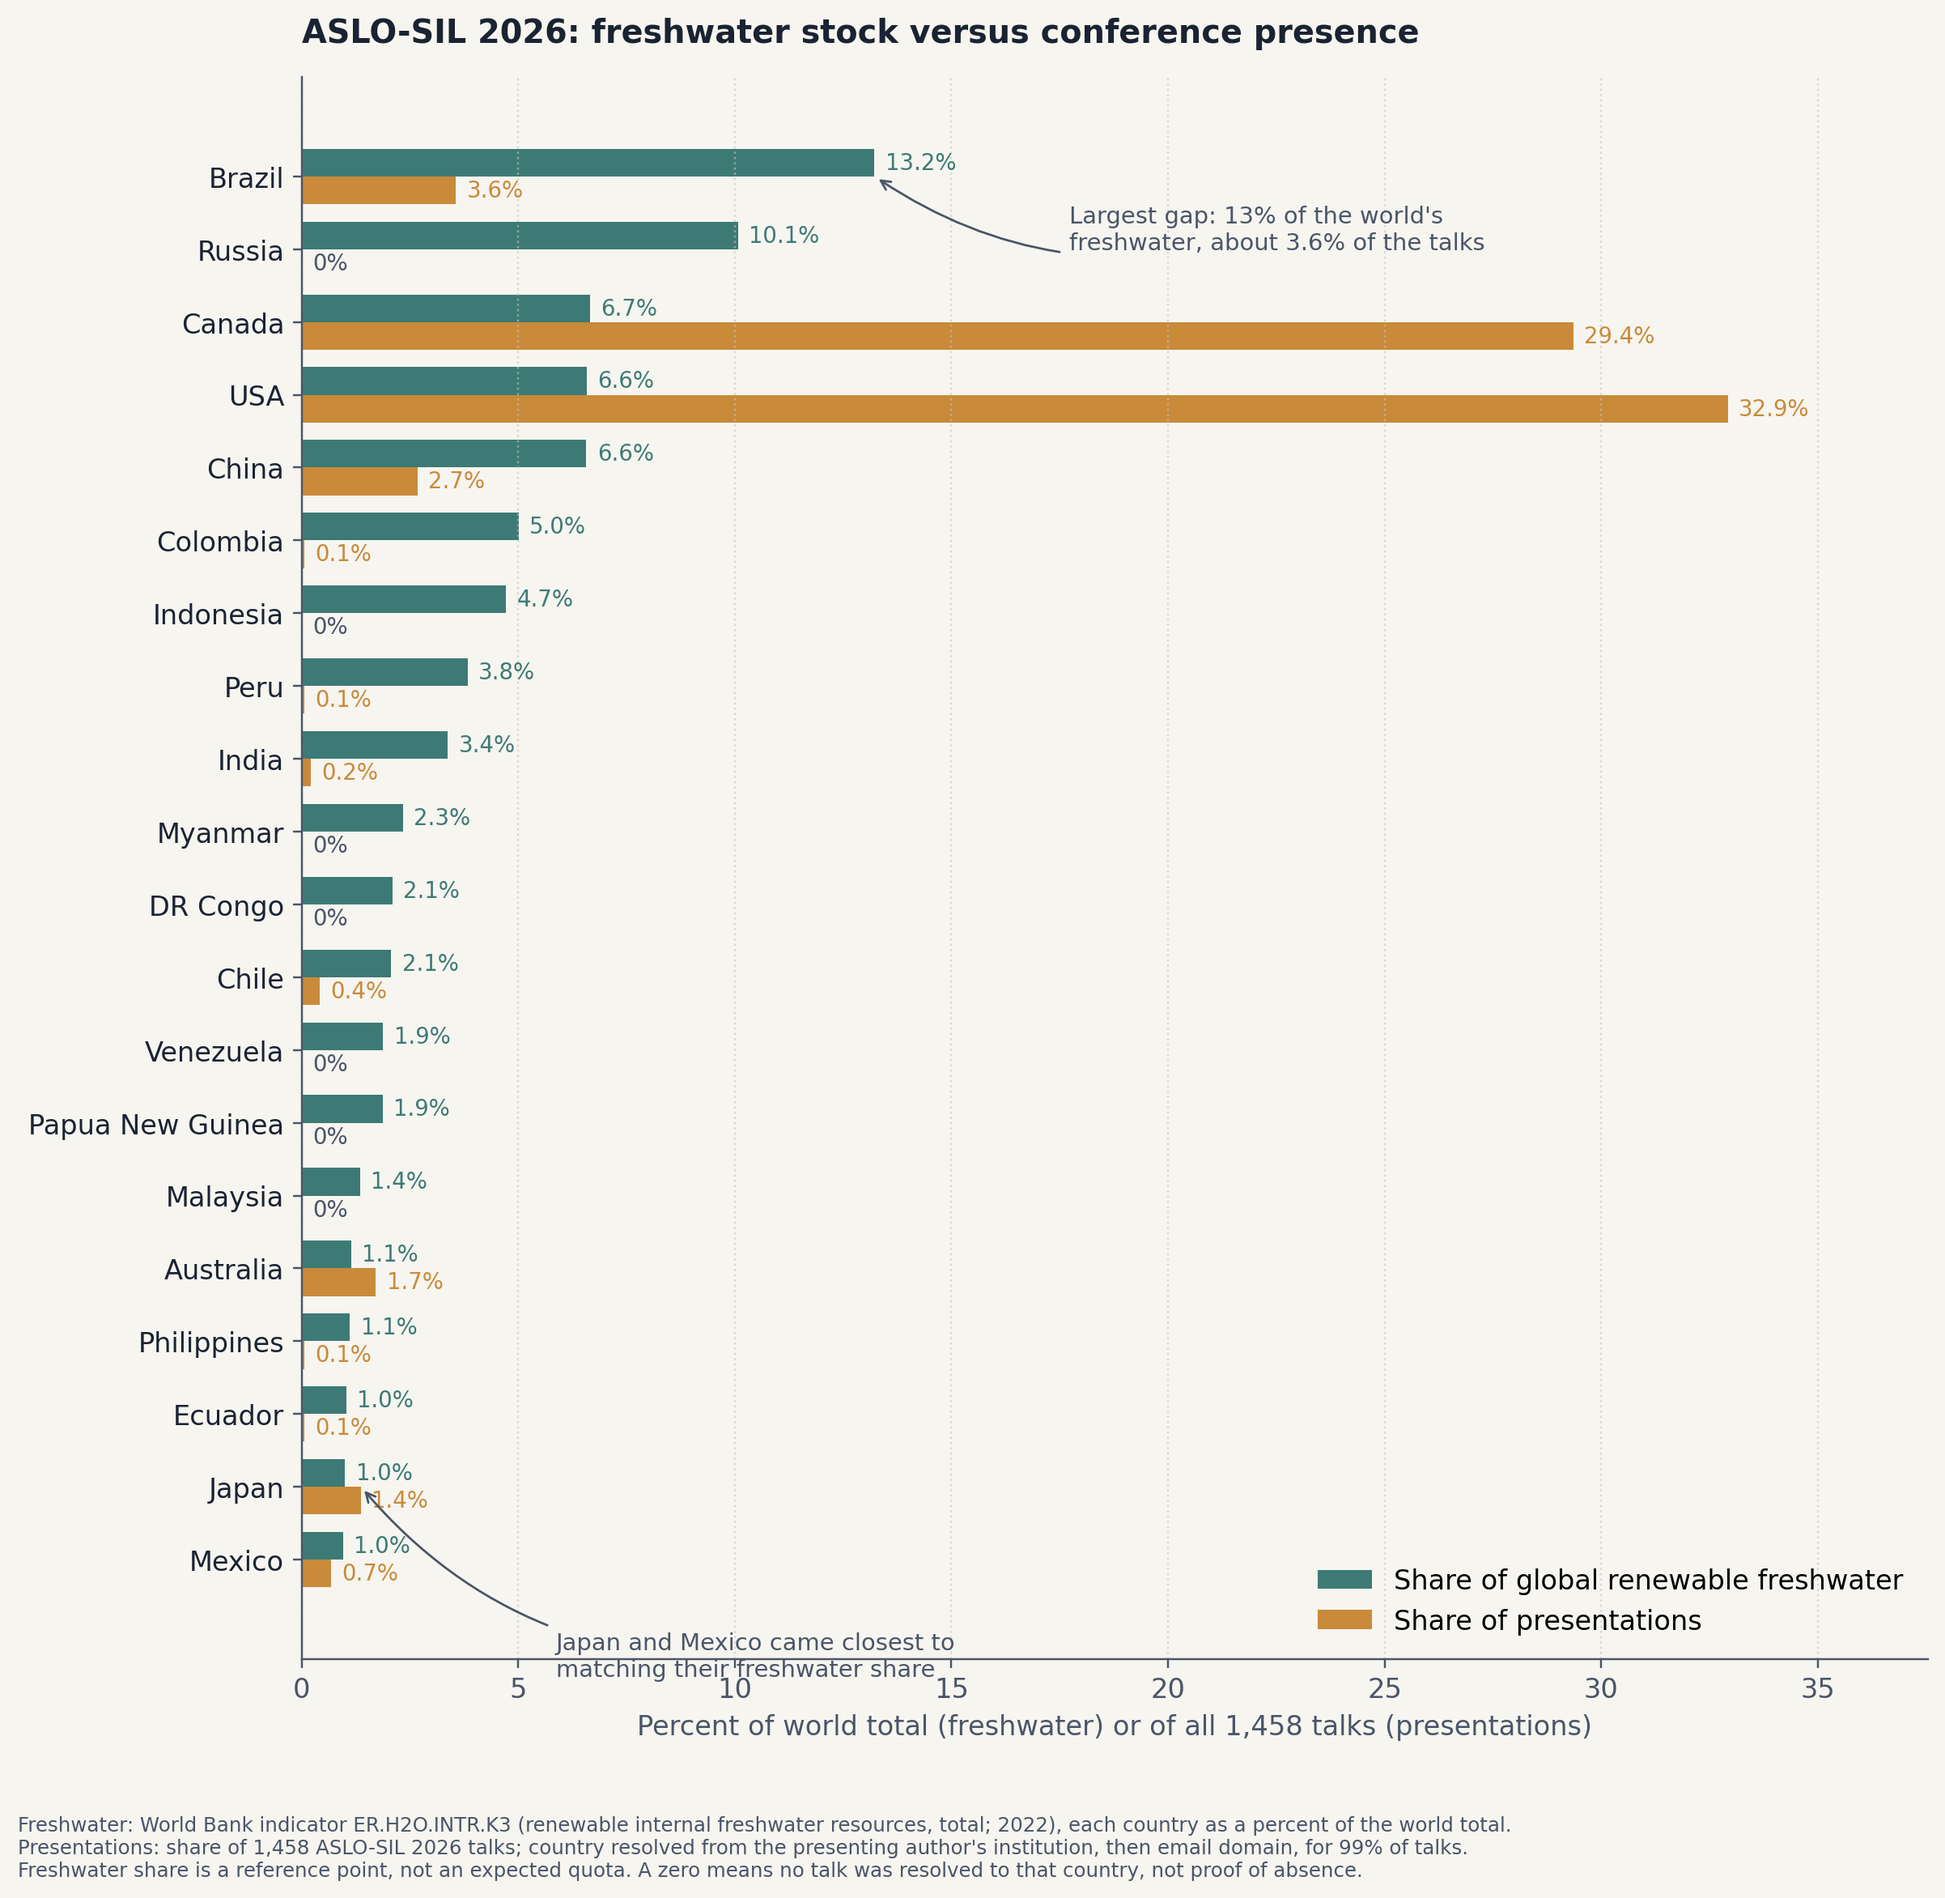
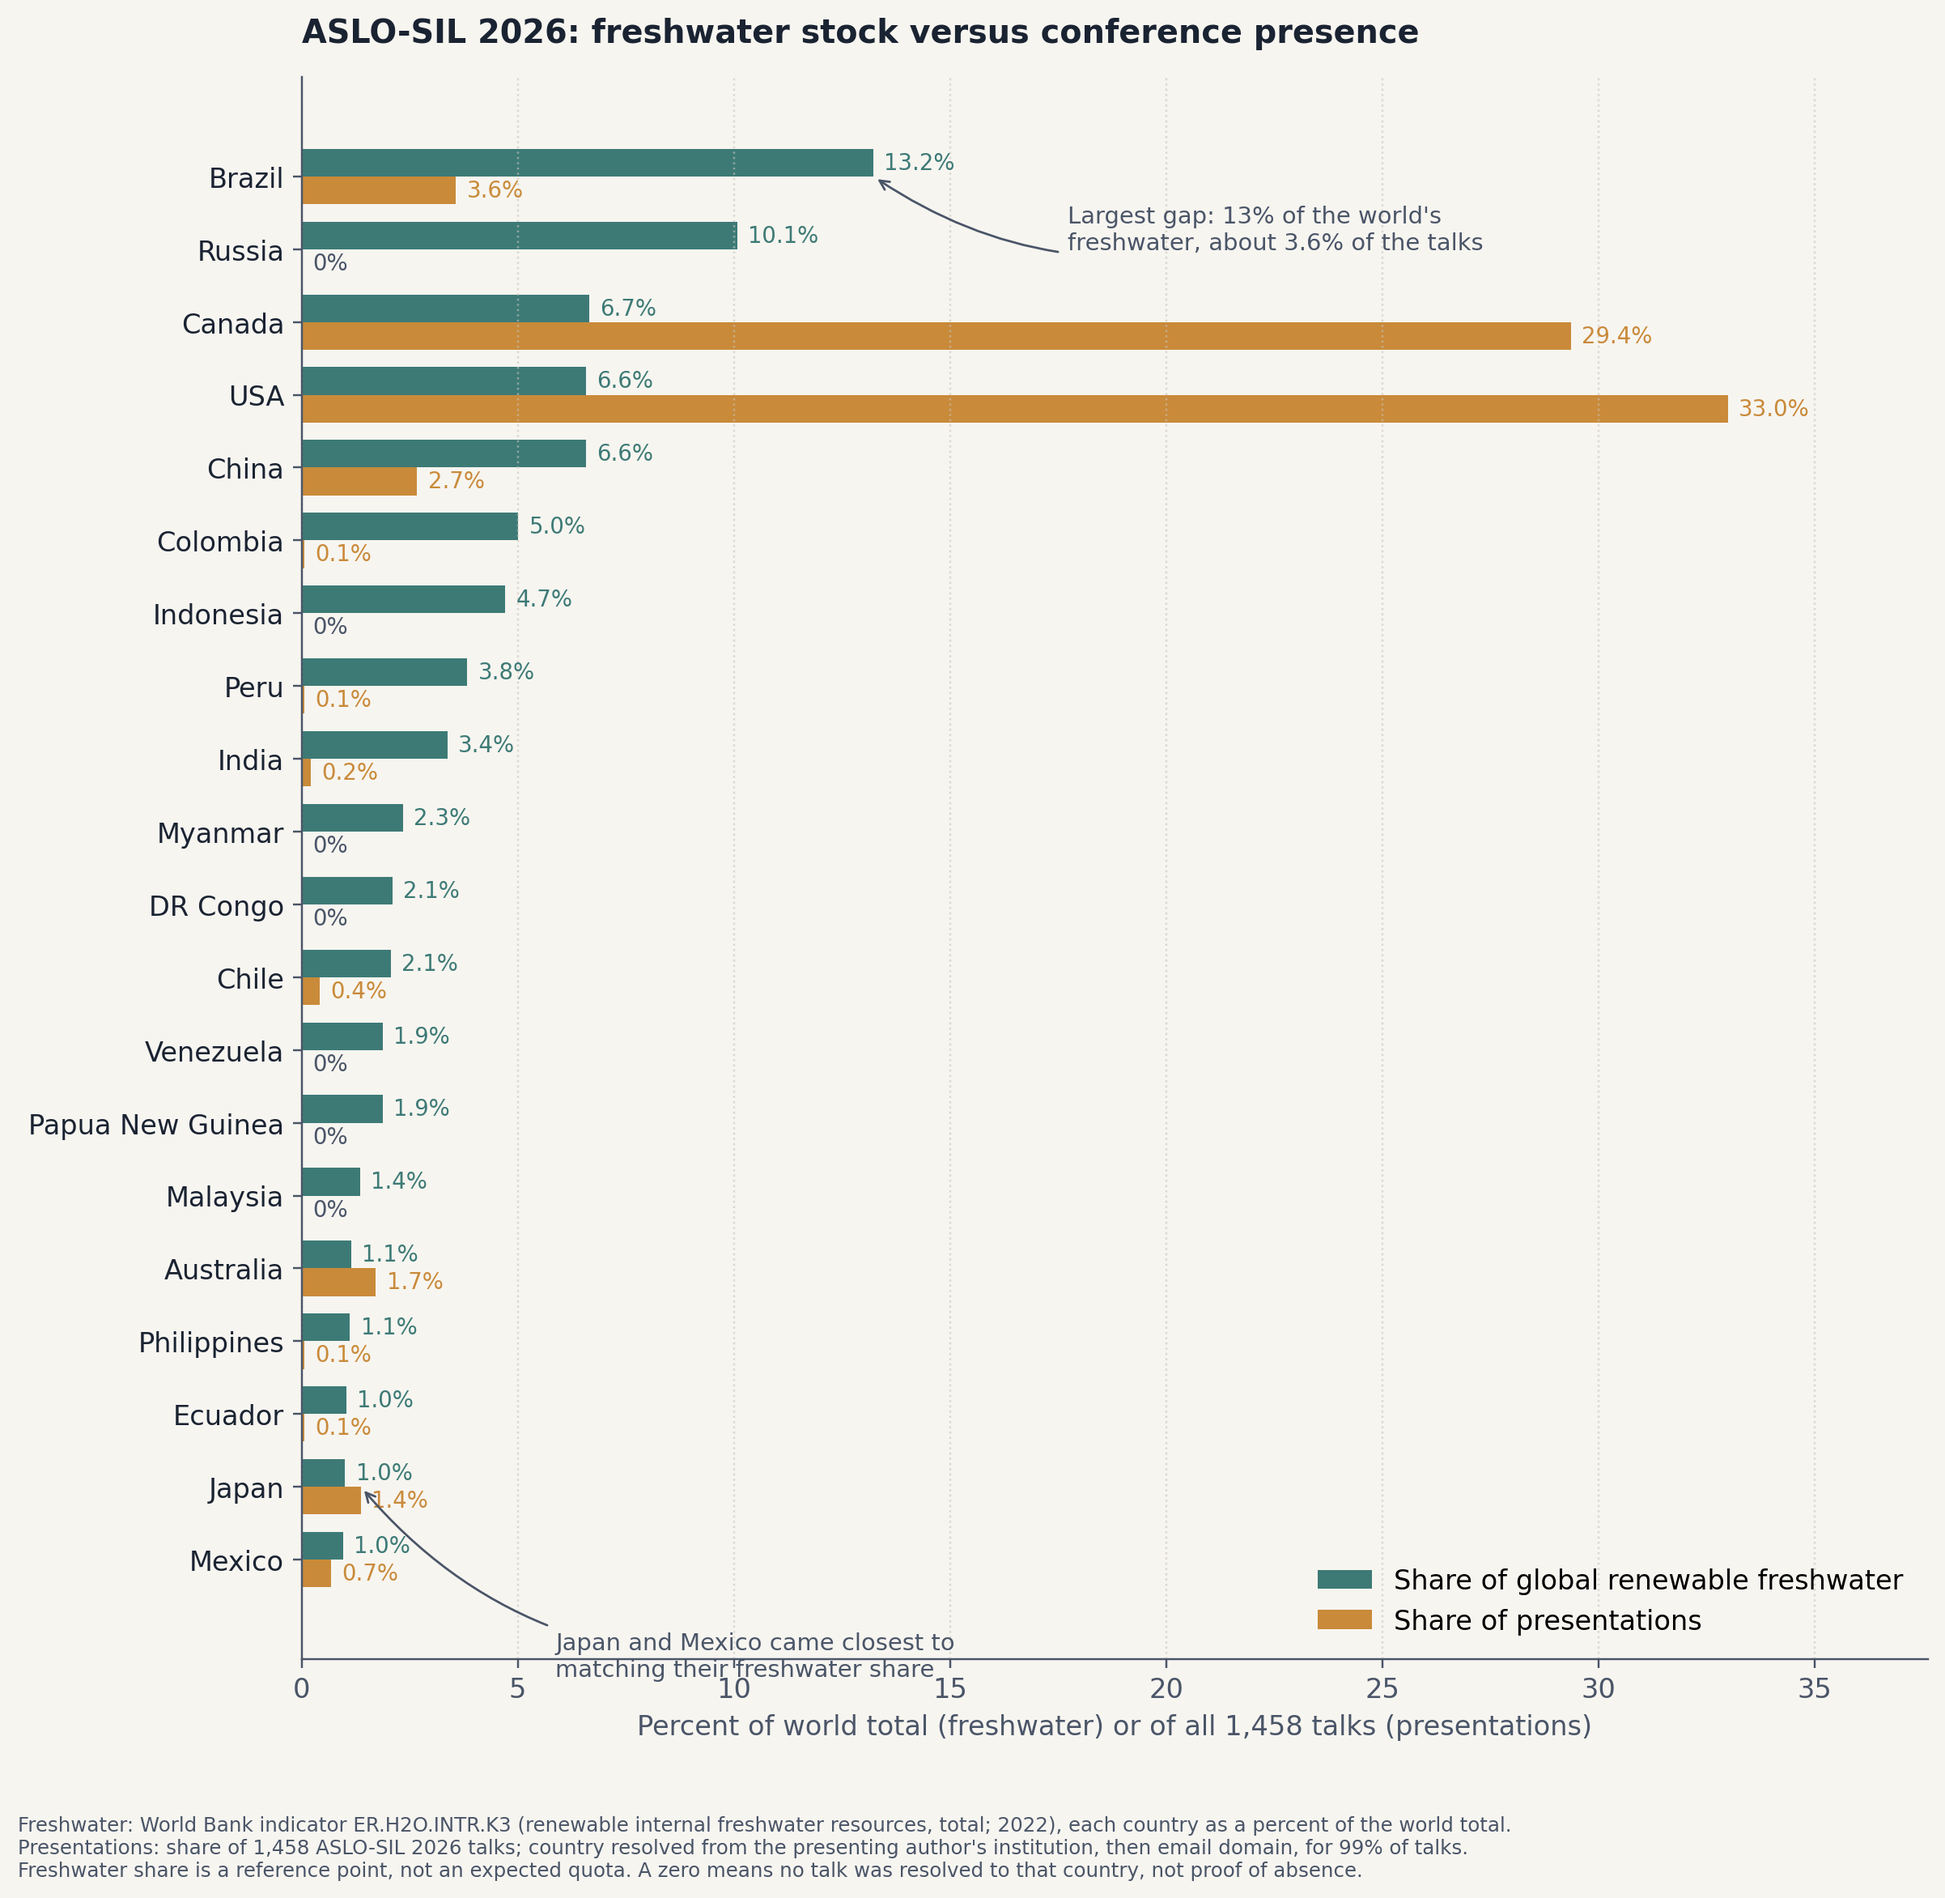
Fix a substring false positive: Oberlin College was resolving to Germany
The Germany gazetteer entry was the bare pattern `berlin`, with no word
boundary, so "Oberlin College" (Ohio) matched on its Ob-ERLIN- substring and
resolved to Germany. The pattern is now `\bberlin\b`, which still matches
"TU Berlin", "IGB Berlin" and "Humboldt-Universitat zu Berlin".

Worth recording why this happened. Oberlin's own address, an @oberlin.edu, would
have resolved it correctly under rule 4. It was rule 1 (institution before mail
provider) that let a substring outrank a correct email, and rule 1 is exactly the
change that fixed the threefold Brazil undercount. A fix can introduce a new
error, which is why the gazetteer needs a human read and not only a green test.

`barcelona` is deliberately left without a word boundary: it must keep matching
"BarcelonaTech" (Universitat Politecnica de Catalunya), which carries no other
Spanish signal.

Effect: USA 480 -> 481 (32.9% -> 33.0%), Germany 83 -> 82. Resolution stays at
1,444 of 1,458 (99%), US+Canada stays 62.3%. Verifier expectations, the
manuscript's n, Figure 2 and the README correction table all updated. 65 checks
still pass against the published data.

diff --git a/scripts/country_resolver_v2.py b/scripts/country_resolver_v2.py
@@ -23,6 +23,18 @@ v2 RULE ORDER (institution truth first, mail provider last):
      not their country: `yahoo.fr` on a Université du Québec affiliation is Canadian.
   4. Generic .edu/.gov => USA, LAST, so it can never outrank a named foreign institution.
 
+v2.1 FIX (Oberlin): the Germany pattern was `berlin`, with no word boundary, so
+`Oberlin College` (Ohio) matched and resolved to Germany. Its own address,
+ylin@oberlin.edu, would have resolved it correctly under rule 4. The lesson is
+that rule 1 (institution first), which fixed the Brazil undercount, is also what
+let a substring outrank a correct email: a fix can introduce a new error. The
+pattern is now `\bberlin\b`, which still matches "TU Berlin", "IGB Berlin" and
+"Humboldt-Universitat zu Berlin". USA 480->481, Germany 83->82.
+
+Note that `barcelona` is deliberately left WITHOUT a word boundary: it must keep
+matching "BarcelonaTech" (Universitat Politecnica de Catalunya), which is in
+Barcelona and carries no other Spanish signal.
+
 Anything still unresolved is reported as unresolved. It is never guessed.
 """
 import re
@@ -123,7 +135,7 @@ GAZETTEER = [
                  r"german federal institute of hydrology", r"university of cologne",
                  r"brandenburg university", r"duisburg-essen", r"university of konstanz",
                  r"\bIGB\b", r"helmholtz", r"\bUFZ\b", r"freiberg", r"university bremen",
-                 r"\bgermany\b", r"berlin"]),
+                 r"\bgermany\b", r"\bberlin\b"]),
     ("Austria", [r"\bBOKU\b", r"university of natural resources and life sciences",
                  r"natural resources and life sciences", r"\baustria\b", r"vienna"]),
     ("Switzerland", [r"university of geneva", r"swiss federal institute", r"\bEawag\b",

diff --git a/scripts/verify_manuscript_claims.py b/scripts/verify_manuscript_claims.py
@@ -149,8 +149,8 @@ detect = sum(countries.values())
 N = len(slots)
 check("Presentations with a resolved country", detect, 1444)
 check("  as % of all", round(100 * detect / N, 1), 99.0, tol=0.2)
-check("USA count", countries["USA"], 480)
-check("  USA as % of 1,458", round(100 * countries["USA"] / N, 1), 32.9, tol=0.1)
+check("USA count", countries["USA"], 481)
+check("  USA as % of 1,458", round(100 * countries["USA"] / N, 1), 33.0, tol=0.1)
 check("Canada count", countries["Canada"], 428)
 check("  Canada as % of 1,458", round(100 * countries["Canada"] / N, 1), 29.4, tol=0.1)
 check("US + Canada as % of all", round(100 * (countries["USA"] + countries["Canada"]) / N, 1), 62.3, tol=0.2)

diff --git a/manuscripts/00_REVISION_reading_the_room_1458.md b/manuscripts/00_REVISION_reading_the_room_1458.md
@@ -40,7 +40,7 @@ The back half of the week tested everyone's attention. Thursday and Friday (14 a
 
 ## Geographic gaps and opportunities
 
-Geography is where the programme has the most room to grow, and where collaboration could most obviously widen. A country could be resolved for 99% of presentations (n = 1,444), from the presenting author's institution and, where the institution did not identify a country, their email domain. The US accounted for about 33% (n = 480) and Canada about 29% (n = 428), so between them the two host-region countries gave about 62% of the programme. Some of that follows from the venue and the host community: Montréal is reachable for much of North America, and the geography of the two organising societies' memberships may partly account for it as well. Cost matters here too, but it is relative; "easy to reach" looks very different to a graduate student or a researcher on soft money than it does from a well-funded lab. Venue and membership explain the size of the US and Canada shares, but not who is missing.
+Geography is where the programme has the most room to grow, and where collaboration could most obviously widen. A country could be resolved for 99% of presentations (n = 1,444), from the presenting author's institution and, where the institution did not identify a country, their email domain. The US accounted for about 33% (n = 481) and Canada about 29% (n = 428), so between them the two host-region countries gave about 62% of the programme. Some of that follows from the venue and the host community: Montréal is reachable for much of North America, and the geography of the two organising societies' memberships may partly account for it as well. Cost matters here too, but it is relative; "easy to reach" looks very different to a graduate student or a researcher on soft money than it does from a well-funded lab. Venue and membership explain the size of the US and Canada shares, but not who is missing.
 
 Set against each country's share of the world's renewable freshwater, that contrast is striking (Figure 2). Among the twenty countries holding the most freshwater, Japan and Mexico came closest to matching their share, each within about a third of a percentage point of it. Countries holding vast freshwater were thin on the schedule: Brazil holds about 13% of the world's renewable freshwater but gave about 3.6% of presentations (n = 52); India (3% of global freshwater), Peru (4%), and Colombia (5%) contributed five talks between them; and Russia (10%), Indonesia (5%), and Myanmar (2%) were not detected in the programme at all. Those seven countries together account for about 42% of the world's renewable freshwater. Freshwater share is not a quota, and nothing here says how many talks a country ought to send; it is simply a reference point that makes the shape of the gap visible.
 

diff --git a/README.md b/README.md
@@ -19,7 +19,7 @@ The error was directional: it undercounted precisely the countries whose under-r
 |---|---|---|
 | Presentations | 1,461 | **1,458** (1,461 scheduled slots, 3 empty/withdrawn placeholders) |
 | Country resolved | ~78% | **99%** (1,444 of 1,458) |
-| USA | ~29% | **32.9%** (n = 480) |
+| USA | ~29% | **33.0%** (n = 481) |
 | Canada | ~25% | **29.4%** (n = 428) |
 | USA + Canada | ~54% | **62.3%** |
 | Brazil | ~1% | **3.6%** (n = 52) |
